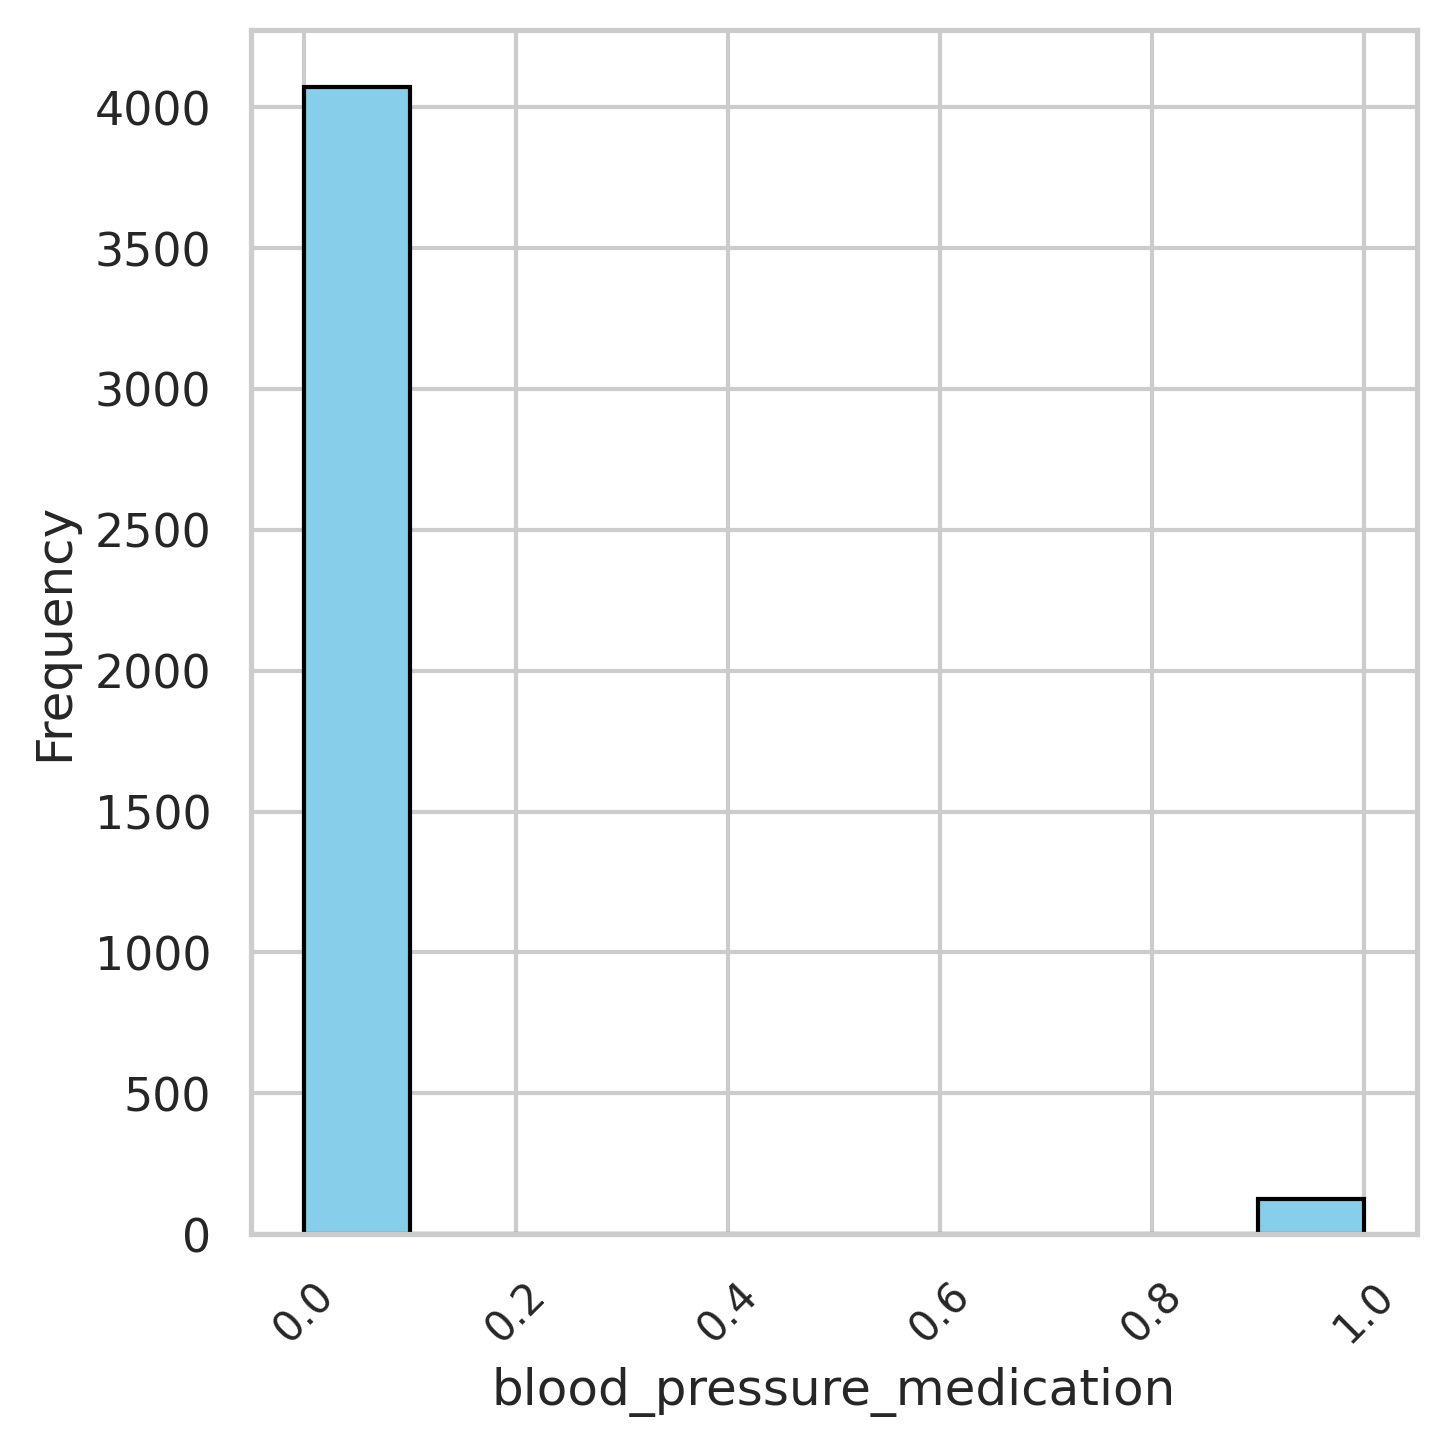
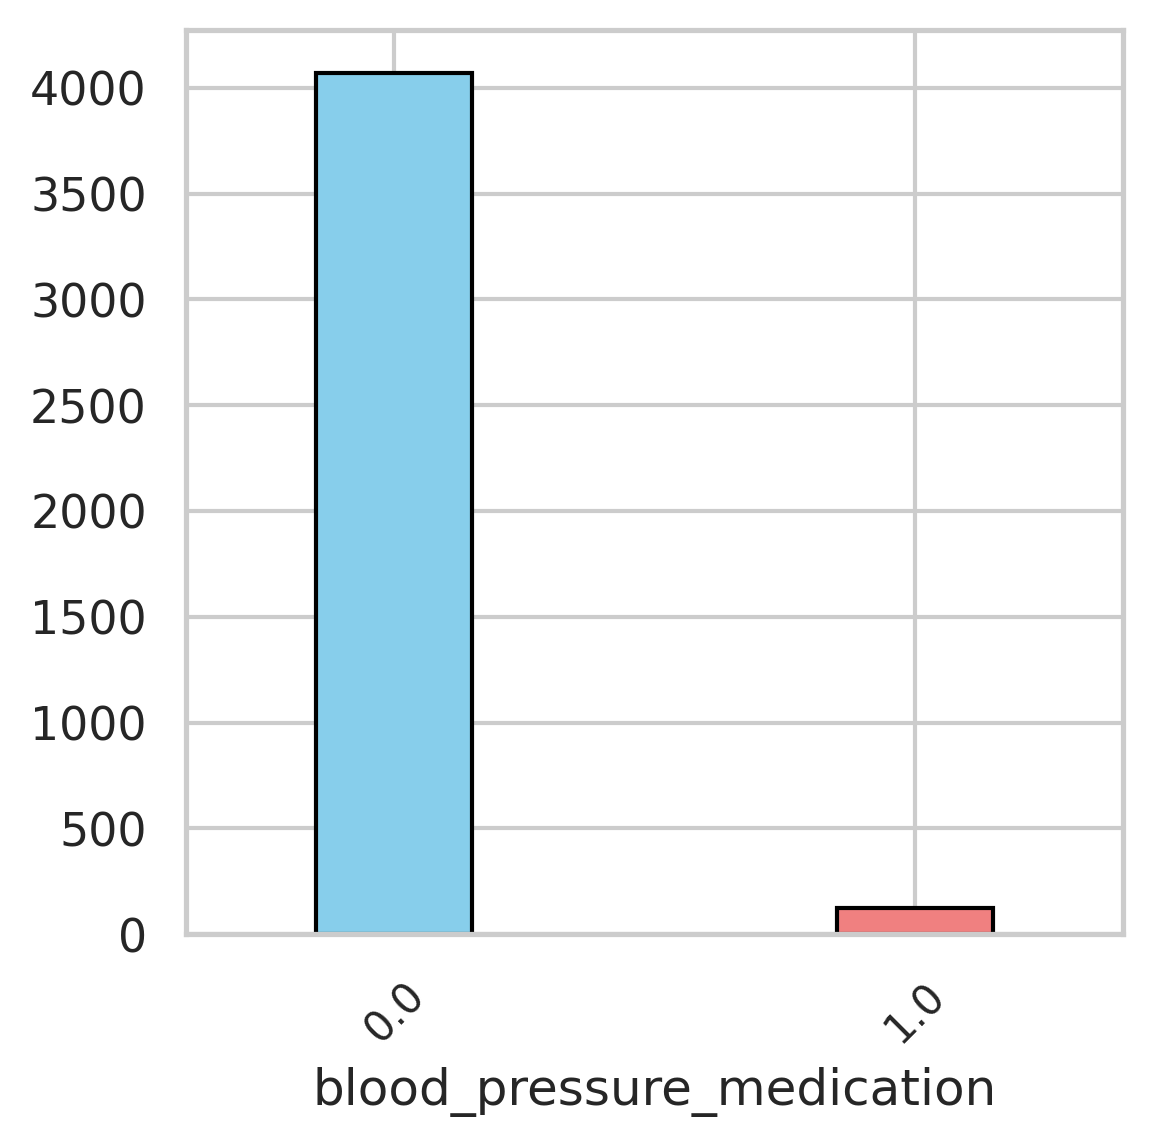
Results for 3.1 and 3.2. Better rendering for discrete tables

diff --git a/pirvision_dataset_eda.py b/pirvision_dataset_eda.py
@@ -45,7 +45,7 @@ def solve_first_eda_pirvision():
     plt.savefig(PIRVISION_CONTINUE_VARS_BOXPLOT.replace('.png', f'_OBS_1.png'), dpi=300)
 
     # (pd.DataFrame(dataset['OBS_1']), title = f"Pirvision Boxplot Continuous Variables OBS_1", outputname=PIRVISION_CONTINUE_VARS_BOXPLOT.replace('.png', f'_OBS_1.png'), figsize=(16, 9), log_scale=False)
-    plot_boxplot_value_range(dataset[['Temp (F)', 'Temp (C)']], title = f"Pirvision Boxplot Continuous Variables Temp", outputname=PIRVISION_CONTINUE_VARS_BOXPLOT.replace('.png', f'_Temp.png'), figsize=(16, 9), log_scale=False)
+    plot_boxplot_value_range(dataset[['Temp (F)', 'Temp (C)']], title = f"Pirvision Boxplot Continuous Variables Temp", outputname=PIRVISION_CONTINUE_VARS_BOXPLOT.replace('.png', f'_Temp.png'), figsize=(6, 6), log_scale=False)
     continuous_values.remove('OBS_1')
     continuous_values.remove('Temp (F)')
     continuous_values.remove('Temp (C)')
@@ -55,10 +55,9 @@ def solve_first_eda_pirvision():
         plot_boxplot_value_range(dataset[continuous_vals], title = f"Pirvision Boxplot Continuous Variables {i}", outputname=PIRVISION_CONTINUE_VARS_BOXPLOT.replace('.png', f'_{i}.png'), figsize=(16, 9), log_scale=False)
 
     for value in discrete_values:
-        plt.figure(figsize=(5, 5))
-        dataset[value].hist(width=0.1, color='skyblue', edgecolor='black')
+        plt.figure(figsize=(4, 4))
+        dataset[value].value_counts().sort_index().plot.bar(width=0.3, color=['skyblue', 'lightcoral', 'forestgreen', 'magenta'], edgecolor='black')
         plt.xlabel(value, fontsize=12)
-        plt.ylabel('Frequency', fontsize=12)
         plt.xticks(rotation=45, fontsize=10)
         plt.tight_layout()
         plt.savefig(PIRVISION_DISCRETE_VARS_BOXPLOT.replace('.png', f'_{value}.png'), bbox_inches='tight', dpi=300)

diff --git a/heart_dataset_eda.py b/heart_dataset_eda.py
@@ -33,15 +33,14 @@ def solve_first_eda_heart():
         'value_counts': [dataset[col].value_counts().to_dict() for col in discrete_values]
     })
 
-    plot_description_values_table(df_discrete_vals, title="Heart Disease Discrete Variables", outputname=HEART_DISCRETE_VARS_TABLE, figsize=(14, 5), log_scale=True)
+    plot_description_values_table(df_discrete_vals, title="Heart Disease Discrete Variables", outputname=HEART_DISCRETE_VARS_TABLE, figsize=(14, 5))
 
-    plot_boxplot_value_range(dataset[continuous_values], HEART_CONTINUE_VARS_BOXPLOT, figsize=(14, 10), log_scale=True)
+    plot_boxplot_value_range(dataset[continuous_values], title="Heart Disease Boxplot", outputname=HEART_CONTINUE_VARS_BOXPLOT, figsize=(14, 10), log_scale=True)
 
     for value in discrete_values:
-        plt.figure(figsize=(5, 5))
-        dataset[value].hist(width=0.1, color='skyblue', edgecolor='black')
+        plt.figure(figsize=(4, 4))
+        dataset[value].value_counts().sort_index().plot.bar(width=0.3, color=['skyblue', 'lightcoral', 'forestgreen', 'magenta'], edgecolor='black')
         plt.xlabel(value, fontsize=12)
-        plt.ylabel('Frequency', fontsize=12)
         plt.xticks(rotation=45, fontsize=10)
         plt.tight_layout()
         plt.savefig(HEART_DISCRETE_VARS_BOXPLOT.replace('.png', f'_{value}.png'), bbox_inches='tight', dpi=300)
